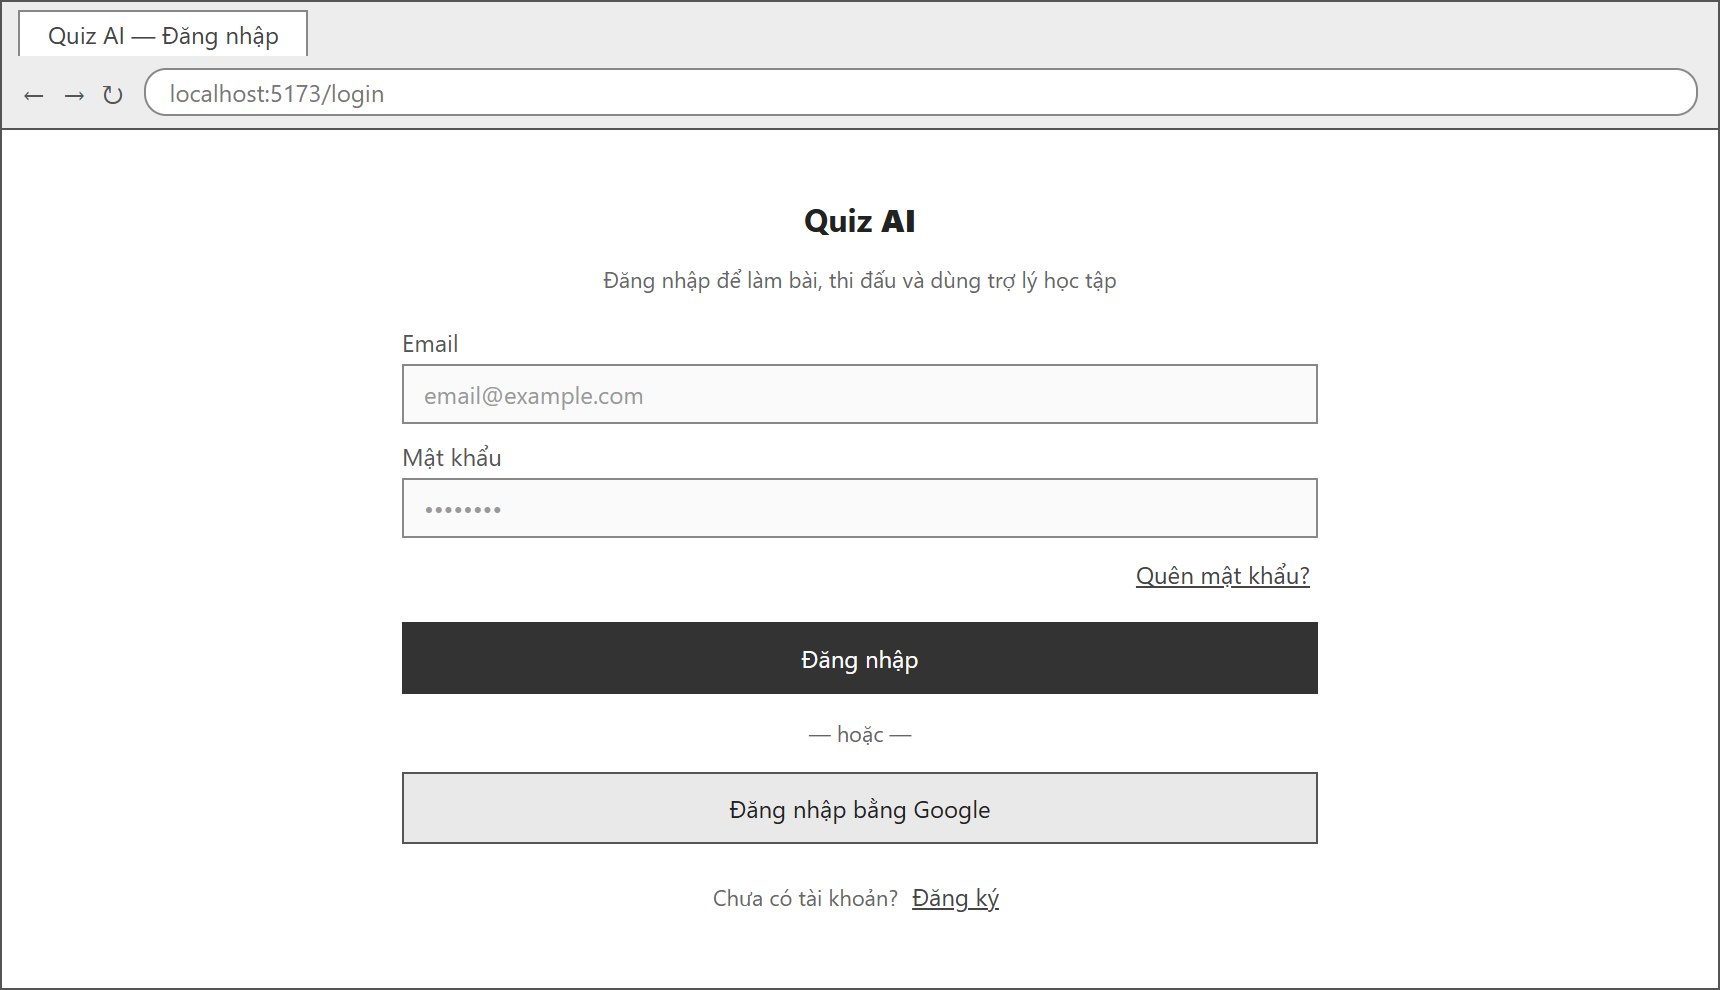
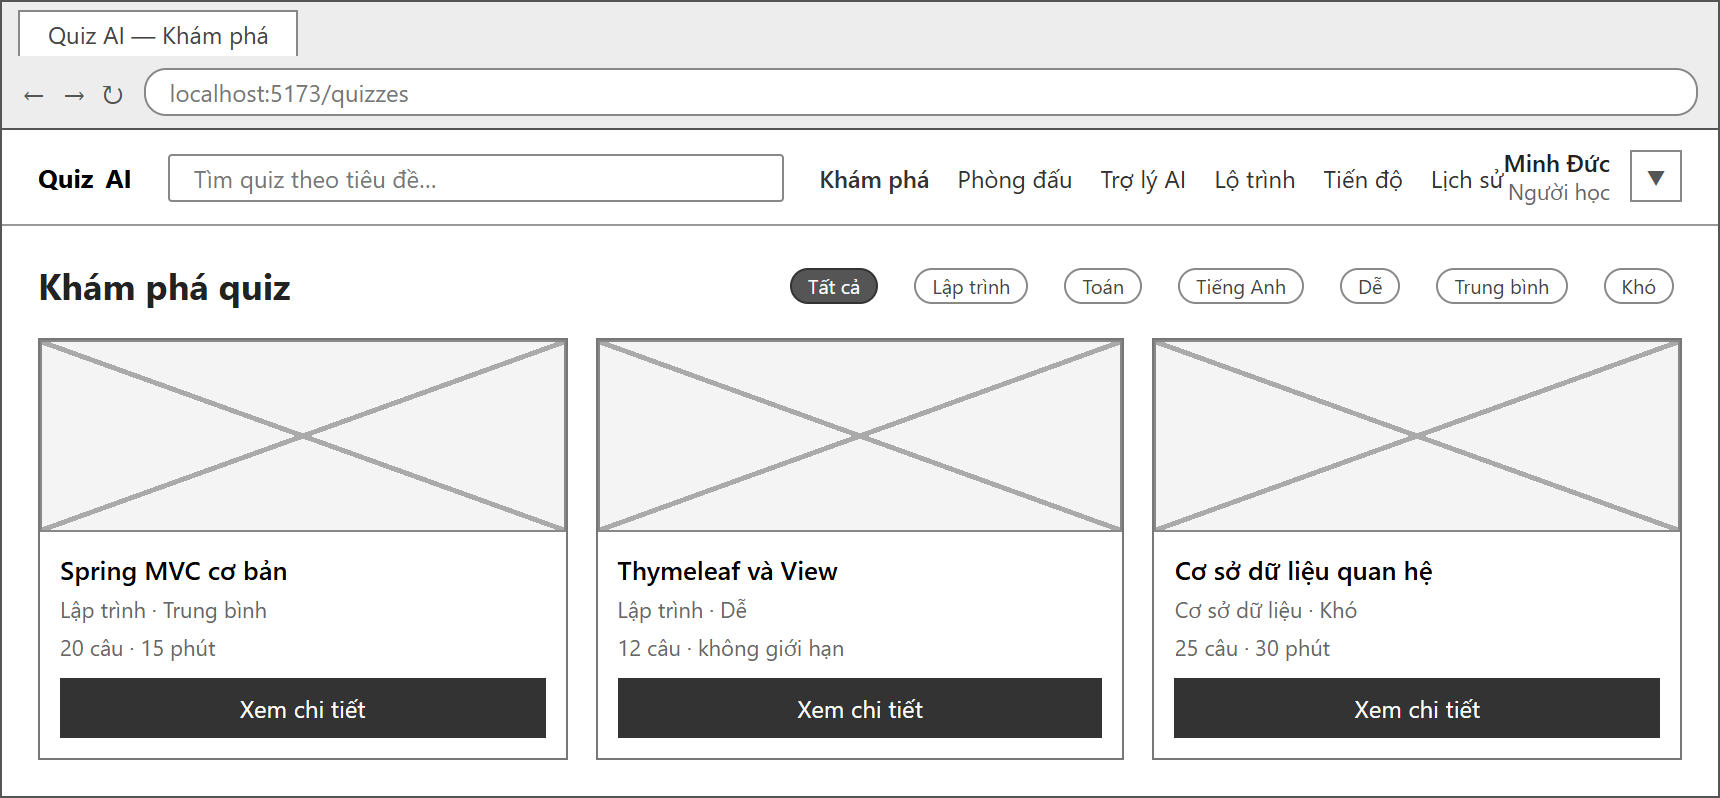
docs(bao-cao): bỏ 8 wireframe lặp với ảnh chụp Chương 3, còn 105 trang
Mười bản phác ở mục 2.2.3 (2.30-2.39) trùng một-đối-một với mười ảnh chụp
thật ở Chương 3: vẽ phác một màn rồi vài chục trang sau chụp ảnh chính màn
đó. Giữ hai bản phác đại diện cho hai họ bố cục mà mục này lập luận — lưới
thẻ ở khu học tập, bảng ở khu quản trị — và trỏ tám màn còn lại sang hình
Chương 3.

Sửa luôn một chỗ đã lỗi thời: mục 2.2.3 còn ghi "nút hành động chính dùng
màu tối, màu tím chỉ dành cho liên kết", tức thiết kế trước 05/09. Nút chính
nay là màu tím đặc.

gen-mockup.js đổi từ chụp tuần tự cả 10 màn sang bảng ánh xạ chỉ số màn ->
số hình, nên chạy lại không ghi đè số cũ. mockup.html giữ nguyên 10 màn để
còn định nghĩa nếu cần dựng lại.

111 -> 105 trang, 58 -> 50 hình.

diff --git a/bao-cao-datn/build/gen-mockup.js b/bao-cao-datn/build/gen-mockup.js
@@ -1,4 +1,14 @@
-/* Chụp từng màn wireframe trong mockup.html -> assets/hinh-2.30.png .. 2.37.png */
+/* Chụp wireframe trong mockup.html -> assets/hinh-2.30.png, hinh-2.31.png
+ *
+ * Chỉ hai màn, không phải cả mười. Mục 2.2.3 của báo cáo trước đây có đủ 10 bản phác (2.30-2.39),
+ * nhưng Chương 3 lại có ảnh chụp thật của ĐÚNG mười màn đó sau khi hiện thực — vẽ phác rồi vài chục
+ * trang sau chụp ảnh chính nó là lặp, và lặp mất khoảng 5 trang.
+ *
+ * Giữ lại hai màn vì mục 2.2.3 lập luận có hai họ bố cục: khu học tập theo lưới thẻ, khu quản trị
+ * theo bảng. Mỗi họ một đại diện là đủ chứng minh, tám màn còn lại chỉ minh hoạ thêm.
+ *
+ * `mockup.html` vẫn giữ nguyên cả 10 màn — không xoá, để cần dựng lại bản phác nào cũng còn định
+ * nghĩa. Bảng dưới quyết định màn nào ra hình nào. */
 const path = require("path");
 const fs = require("fs");
 
@@ -11,12 +21,20 @@ const fs = require("fs");
   await page.setViewport({ width: 920, height: 900, deviceScaleFactor: 2 });
   await page.goto("file://" + path.join(__dirname, "mockup.html").replace(/\\/g, "/"), { waitUntil: "networkidle0" });
   const screens = await page.$$(".screen");
-  let n = 30;
-  for (const s of screens) {
-    const out = path.join(__dirname, "..", "assets", `hinh-2.${n}.png`);
-    await s.screenshot({ path: out });
-    console.log("OK ->", `hinh-2.${n}.png`, fs.statSync(out).size, "bytes");
-    n++;
+
+  /* Chỉ số màn (đếm từ 0 theo thứ tự trong mockup.html) -> số hình trong báo cáo.
+   * 1 = trang khám phá quiz (đại diện lưới thẻ) · 8 = quản lý người dùng (đại diện bảng) */
+  const CAN_CHUP = { 1: "2.30", 8: "2.31" };
+
+  for (const [chiSo, so] of Object.entries(CAN_CHUP)) {
+    const man = screens[Number(chiSo)];
+    if (!man) {
+      console.error(`FAIL hinh-${so}: mockup.html không có màn thứ ${chiSo} (hiện có ${screens.length})`);
+      continue;
+    }
+    const out = path.join(__dirname, "..", "assets", `hinh-${so}.png`);
+    await man.screenshot({ path: out });
+    console.log("OK ->", `hinh-${so}.png`, fs.statSync(out).size, "bytes");
   }
   await browser.close();
 })().catch((e) => { console.error("FAIL:", e.message); process.exit(1); });

diff --git a/bao-cao-datn/02-chuong-2.md b/bao-cao-datn/02-chuong-2.md
@@ -348,75 +348,17 @@ Phía giao diện cũng tổ chức theo tính năng dưới `src/features/<tên
 
 ### 2.2.3. Thiết kế giao diện
 
-Giao diện được thiết kế theo một bộ quy ước thống nhất để tránh việc mỗi trang có một phong cách riêng: màu sắc, bo góc và đổ bóng khai báo tập trung dưới dạng biến chứ không viết trực tiếp trong từng thành phần; nút hành động chính dùng màu tối, màu tím chỉ dành cho liên kết; trang dành cho người học trình bày theo lưới thẻ, trang quản lý trình bày theo bảng; các thành phần dùng chung như tiêu đề trang và trạng thái danh sách rỗng được tái sử dụng. Một quy tắc quan trọng là giao diện **không hiển thị dữ liệu không có thật**: các nền tảng thương mại thường hiện điểm đánh giá và số lượt học, hệ thống này chưa có dữ liệu đó nên không bịa ra để giao diện trông phong phú hơn. Phần này trình bày bản thiết kế của một số màn hình tiêu biểu.
+Giao diện tuân theo một bộ quy ước thống nhất để mỗi trang không mang một phong cách riêng: màu sắc, bo góc và đổ bóng khai báo tập trung dưới dạng biến thay vì viết trực tiếp trong từng thành phần; nút hành động chính dùng một màu nhấn duy nhất trên toàn hệ thống; trang dành cho người học trình bày theo lưới thẻ, trang quản lý theo bảng; tiêu đề trang và trạng thái danh sách rỗng dùng lại thành phần chung. Một quy tắc riêng: giao diện **không hiển thị dữ liệu không có thật**. Các nền tảng thương mại thường hiện điểm đánh giá và số lượt học; hệ thống này chưa thu thập những số đó nên không sinh ra để trang trông phong phú hơn.
 
-Màn hình đăng nhập và đăng ký (Hình 2.30) dùng chung cho mọi vai trò, có thêm lối đăng nhập bằng tài khoản Google và liên kết đặt lại mật khẩu.
+Hai bố cục vừa nêu được minh họa bằng hai màn tiêu biểu: trang khám phá quiz đại diện lưới thẻ của khu học tập (Hình 2.30), trang quản lý người dùng đại diện bảng của khu quản trị (Hình 2.31).
 
-[HÌNH 2.30: Thiết kế giao diện màn hình Đăng nhập và Đăng ký — cần chèn]
+[HÌNH 2.30: Thiết kế giao diện trang khám phá quiz — cần chèn]
 
-Trang khám phá quiz (Hình 2.31) hiển thị lưới thẻ quiz kèm thanh tìm kiếm và bộ lọc theo danh mục, độ khó; đây cũng là trang khách chưa đăng nhập xem được, nhưng không truy cập được nội dung câu hỏi.
+[HÌNH 2.31: Thiết kế giao diện quản lý người dùng (khu quản trị) — cần chèn]
 
-[HÌNH 2.31: Thiết kế giao diện trang khám phá quiz — cần chèn]
+Các màn còn lại không đưa bản phác vào đây, vì Chương 3 đã có ảnh chụp của chính chúng sau khi hiện thực: đăng nhập (Hình 3.2), làm bài (Hình 3.4), kết quả làm bài (Hình 3.5), phòng đấu (Hình 3.6), học liệu và sinh đề (Hình 3.7), trợ lý học tập (Hình 3.8), gợi ý và lộ trình học (Hình 3.9), giám sát AI (Hình 3.15).
 
-Màn hình làm bài (Hình 2.32) gồm nội dung câu hỏi, danh sách phương án, đồng hồ đếm ngược với bài có tính giờ, lưới điều hướng giữa các câu và nút nộp bài.
-
-[HÌNH 2.32: Thiết kế giao diện màn hình làm bài — cần chèn]
-
-Màn hình kết quả (Hình 2.33) hiển thị tổng điểm, danh sách câu kèm đáp án đúng và lời giải thích; riêng câu tự luận có thêm nhận xét và gợi ý cải thiện do AI sinh.
-
-[HÌNH 2.33: Thiết kế giao diện màn hình kết quả làm bài — cần chèn]
-
-Sảnh chờ và phòng đấu (Hình 2.34) gồm ô nhập mã PIN, danh sách người chơi đang chờ kèm mã QR để chia sẻ; khi vào ván, màn hình hiển thị câu hỏi và bảng xếp hạng cập nhật trực tiếp sau mỗi câu.
-
-[HÌNH 2.34: Thiết kế giao diện sảnh chờ và phòng đấu thời gian thực — cần chèn]
-
-Màn hình học liệu và sinh đề bằng AI (Hình 2.35) gồm danh sách học liệu kèm trạng thái xử lý và công tắc chia sẻ, biểu mẫu cấu hình sinh đề (học liệu nguồn, chủ đề, loại câu, số lượng, độ khó), và danh sách câu hỏi nháp chờ duyệt kèm đoạn học liệu nguồn để đối chiếu.
-
-[HÌNH 2.35: Thiết kế giao diện học liệu và sinh đề bằng AI — cần chèn]
-
-Màn hình trợ lý học tập (Hình 2.36) gồm cột danh sách hội thoại đã lưu, khung hội thoại chính, ô nhập câu hỏi và khối trích dẫn nguồn hiển thị dưới mỗi câu trả lời.
-
-[HÌNH 2.36: Thiết kế giao diện màn hình trợ lý học tập — cần chèn]
-
-Màn hình gợi ý và lộ trình học (Hình 2.37) hiển thị danh sách quiz được gợi ý kèm lý do gợi ý, cùng thứ tự chủ đề nên ôn dựa trên năng lực hiện tại.
-
-[HÌNH 2.37: Thiết kế giao diện gợi ý và lộ trình học — cần chèn]
-
-### Khu quản trị dùng khung giao diện riêng
-
-Bảy màn trên thuộc khu học tập và dùng chung một khung: thanh điều hướng ngang cố định trên đầu. Khu
-quản trị **không** dùng khung đó mà có bố cục riêng với thanh điều hướng dọc (sidebar) nền tối. Đây là
-quyết định thiết kế, không phải khác biệt thẩm mỹ, dựa trên ba lý do xếp theo mức quan trọng:
-
-**Thứ nhất, trông khác là một lớp an toàn.** Mọi thao tác ở khu học tập chỉ tác động lên dữ liệu của
-chính người đang dùng. Ở khu quản trị thì khác: khoá tài khoản và đổi vai trò tác động lên **người
-khác**, và không có nút hoàn tác. Một bố cục khác hẳn khiến quản trị viên luôn nhận biết mình đang ở
-khu nào, thay vì tưởng vẫn ở trang cá nhân rồi thực hiện một thao tác không lấy lại được.
-
-**Thứ hai, đây là hai ngữ cảnh làm việc khác nhau.** Các mục *Khám phá, Phòng đấu, Trợ lý AI, Lộ trình,
-Tiến độ* không liên quan gì tới việc xem chi phí gọi mô hình hay xử lý một tài khoản vi phạm. Trộn hai
-nhóm chức năng vào cùng một thanh menu buộc người dùng tự lọc ra mục mình cần ở mỗi lần dùng.
-
-**Thứ ba, thanh dọc mở rộng được.** Với vai trò người tạo nội dung, thanh ngang của khu học tập đã có
-mười mục và sẽ tràn hàng trên màn hình hẹp; trong khi khu quản trị còn hai nhóm chức năng dự kiến bổ
-sung là kiểm duyệt nội dung và cấu hình nhà cung cấp AI.
-
-Việc chuyển giữa hai khu đi được **cả hai chiều**: lối vào là mục *"Khu quản trị"* trong menu tài khoản
-(chỉ hiện với vai trò quản trị viên), lối ra là mục *"Về khu học tập"* đặt ngay trong sidebar. Đặt lối
-vào ở menu tài khoản chứ không ở thanh menu nội dung, vì vào khu quản trị là **chuyển ngữ cảnh** chứ
-không phải điều hướng trong cùng một ngữ cảnh.
-
-Màn hình quản lý người dùng (Hình 2.38) gồm sidebar điều hướng, bộ lọc theo từ khoá, vai trò và trạng
-thái, cùng bảng danh sách người dùng với thao tác đổi vai trò và khoá tài khoản. **Không có thao tác xoá
-người dùng** — lý do đã trình bày ở mục 2.2.1.
-
-[HÌNH 2.38: Thiết kế giao diện quản lý người dùng (khu quản trị) — cần chèn]
-
-Màn hình giám sát AI (Hình 2.39) gồm bốn thẻ số liệu tổng quan (tổng lượt gọi, tỉ lệ thất bại, tổng
-token, độ trễ), cảnh báo khi có lượt phải dùng nhà cung cấp dự phòng, và hai bảng tách theo chức năng và
-theo nhà cung cấp.
-
-[HÌNH 2.39: Thiết kế giao diện giám sát chi phí AI (khu quản trị) — cần chèn]
+**Khu quản trị dùng khung giao diện riêng.** Khu học tập dùng thanh điều hướng ngang; khu quản trị dùng thanh điều hướng dọc nền tối. Đây là quyết định thiết kế, không phải khác biệt thẩm mỹ: thao tác ở khu học tập chỉ tác động lên dữ liệu của chính người dùng, còn khóa tài khoản hay đổi vai trò tác động lên người khác và không có nút hoàn tác, nên một bố cục khác hẳn giúp quản trị viên luôn nhận biết mình đang ở khu nào. Ngoài ra hai khu là hai ngữ cảnh làm việc khác nhau, và thanh dọc còn chỗ mở rộng khi bổ sung chức năng quản trị. Lối vào đặt ở menu tài khoản, lối ra đặt trong thanh dọc — vào khu quản trị là chuyển ngữ cảnh chứ không phải điều hướng trong cùng một ngữ cảnh.
 
 ## 2.3. Kết luận chương 2
 
